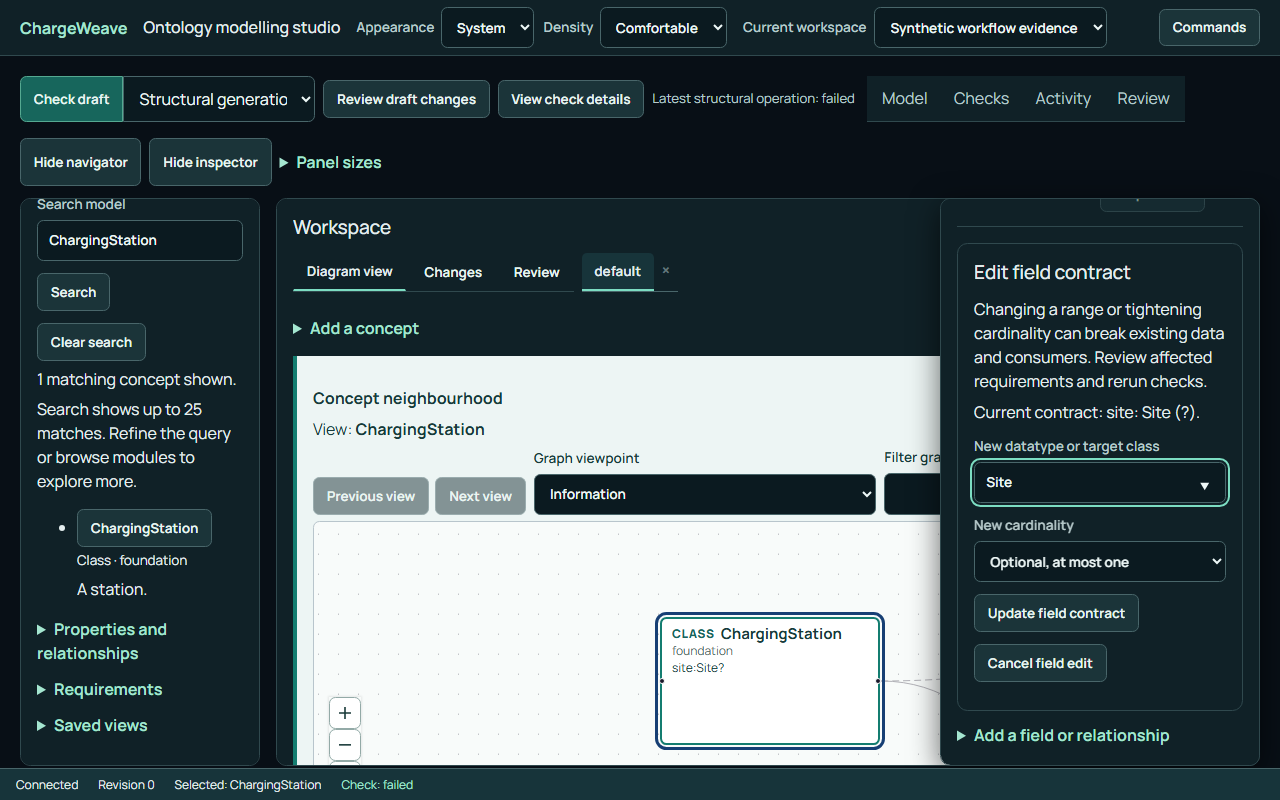
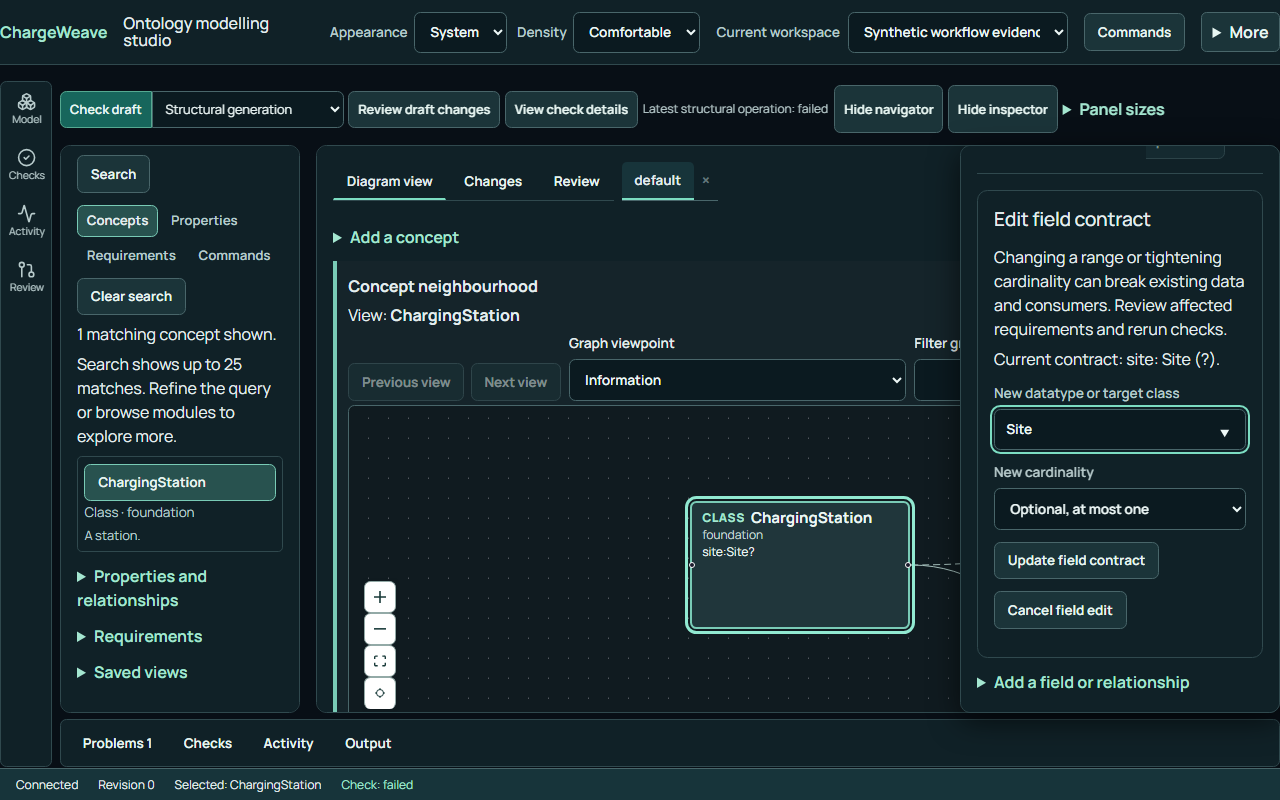
test: scope check summary assertion and capture details
Scope the shared-workspace journey assertion to the diagram summary now that successful and failed recorded steps are also displayed in the Checks panel. Reproduce the focused GitHub matrix selection locally: desktop 4 passed with one project-specific skip; mobile 5 passed. Update the synthetic capture fixture to include distinct passing and failing steps, add light/dark Checks screenshots, and document capture provenance. The preceding exact-SHA focused matrix failure is recorded; GitHub verification of this fix is still required.

diff --git a/website/tests/modelling.spec.js b/website/tests/modelling.spec.js
@@ -3005,7 +3005,7 @@ test('browser discovers and edits the shared MCP workspace', async ({ page, isMo
     await page.locator('details.studio-connection-tools[open] > summary').click({ force: true });
     await surface('Diagram');
     await page.getByRole('button', { name: 'Run structural generator' }).click();
-    await expect(page.getByText('tools/build.py: passed')).toBeVisible();
+    await expect(page.locator('#studio-diagram-document').getByText('tools/build.py: passed')).toBeVisible();
     await page.getByRole('button', { name: 'View check details' }).click();
     const downloadPromise = page.waitForEvent('download');
     await page.getByRole('button', { name: 'Download evidence report' }).click();

diff --git a/docs/ontology-modelling-ide-ux-status.md b/docs/ontology-modelling-ide-ux-status.md
@@ -228,3 +228,5 @@ Exact-SHA GitHub verification for 5c3dc0143b34f5983953e49cd657a0677663d64 is st
 The capability migration checklist in the plan now links each destination to concrete browser/backend behavior scenarios and names the acceptance still open. Those links are evidence locations, not claims that all scenarios ran or passed on the current SHA. Exact-SHA status update for 5c3dc0143b34f5983953e49cd657a0677663d64: [Ontology authoring](https://github.com/pli-poc/charge-weave/actions/runs/41832139198) passed; [Ontology CI](https://github.com/pli-poc/charge-weave/actions/runs/41832139107) was cancelled when a serialized run was replaced. For c643524abbcca0c3e1d3bd4878cdd59297c42024, [Ontology authoring](https://github.com/pli-poc/charge-weave/actions/runs/41832769824) and [Focused modelling matrix](https://github.com/pli-poc/charge-weave/actions/runs/41832770013) passed; [Ontology CI](https://github.com/pli-poc/charge-weave/actions/runs/41832770087) and [Website / Public App Deployment](https://github.com/pli-poc/charge-weave/actions/runs/41832770220) were cancelled when later serialized runs replaced them.
 
 The compact Checks panel now displays the complete recorded validation step list, including passed steps, alongside failure details. The first-time modelling journey now navigates into Checks on desktop and compact layouts and asserts that the synthetic passing check is visible there. After rebuilding the production assets used by the test server, the focused Playwright journey passed on desktop and mobile (two passed). This verifies the local UI path with a deterministic synthetic check; current-SHA GitHub workflows and independent human usability acceptance remain pending.
+
+For exact commit `e4c1f6246e25b38f7fbfdef1addb3b0abe60ed27`, GitHub's [Focused modelling matrix](https://github.com/pli-poc/charge-weave/actions/runs/41835946970) failed in desktop and mobile because the new recorded-step list made an older page-wide Playwright text locator ambiguous. The reported failure artifacts require authenticated access and could not be read here. Reproducing the workflow's exact Playwright selection locally identified the same strict-mode failure; scoping the assertion to `#studio-diagram-document` fixed it. The focused desktop selection then passed (four passed, one project-specific skip), and mobile passed (five passed). This fix and refreshed synthetic Checks captures are in the follow-up working tree; GitHub verification requires the follow-up commit. At the time of this note, exact-SHA Ontology authoring, Ontology CI and Website runs for e4c1f62 were still pending/in progress.

diff --git a/evidence/ontology-studio/ide/README.md b/evidence/ontology-studio/ide/README.md
@@ -19,3 +19,5 @@ The `real-neighbourhood` images use the committed public `model/domain.schema` a
 These captures are partial visual evidence, not acceptance: other required scenarios, real browser zoom, assistive technology and independent human usability review remain outstanding.
 
 The `workbench-viewport` captures show the current fixed-shell modelling workbench in an isolated synthetic workspace at 1440×1000 and 390×844. They were refreshed from the working tree based on commit `360e984b4f9219b68fb54a6c7095a7690d35aaaa` on 2026-11-03 with headless Chromium 153. Desktop panes remain within the viewport; the explorer and inspector scroll independently, and the results dock stays at the bottom. Draft context, history and connection diagnostics are reached from the app bar's More menu and only open on demand. Reproduce from the repository root with `node website/scripts/capture-ide-evidence.mjs` after building and setting `PLAYWRIGHT_BROWSERS_PATH` to a local Playwright browser installation. This iteration still needs the remaining visual, accessibility and independent human usability acceptance from the IDE plan.
+
+The `checks-1280-light.png` and `checks-1280-dark.png` captures show the Checks panel with a distinct passing structural step and a separate failing synthetic review step. They were captured with Chromium 153 on 2026-11-04 from implementation commit `e4c1f6246e25b38f7fbfdef1addb3b0abe60ed27`, using the updated `website/scripts/capture-studio-workflows.mjs` working tree and an in-memory workspace. The results panel is scrolled to show the full recorded-step list. These images document synthetic UI state; they do not represent a real model validation outcome.
